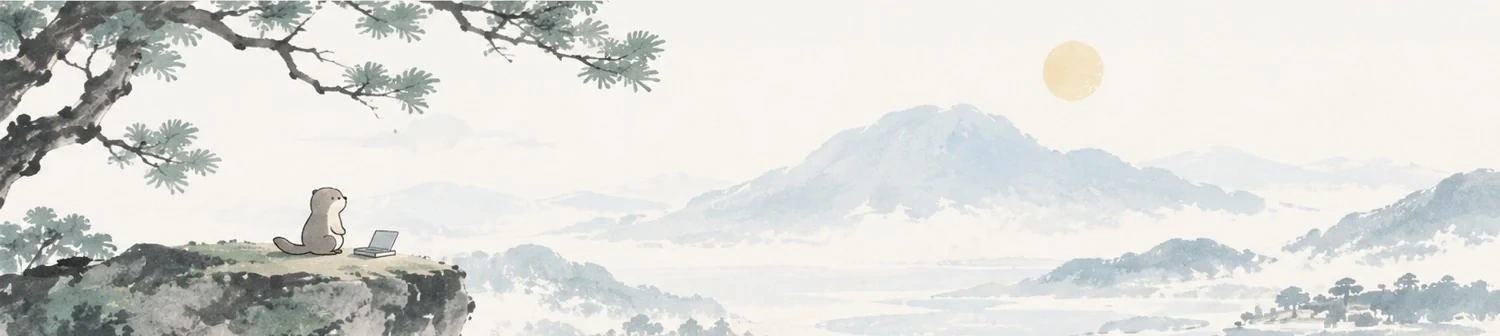
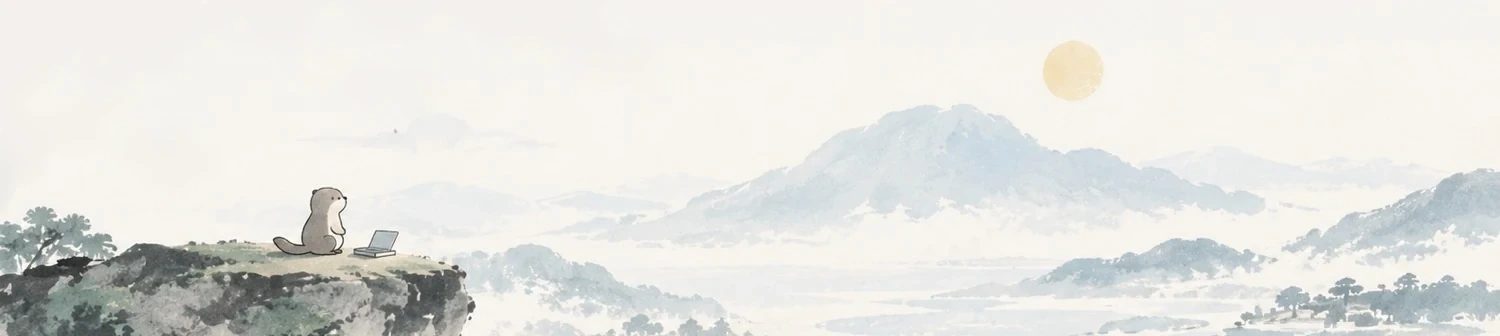
feat: 헤더 소나무를 레이어로 분리해 흔들림 추가

Changed region(s): [[0.0, 0.0, 0.46, 0.5952]]

diff --git a/src/features/header/LandscapeImages.tsx b/src/features/header/LandscapeImages.tsx
@@ -1,21 +1,56 @@
+import { cn } from "#/shared/lib/tailwind";
+
+interface LandscapeSceneProps {
+  background: string;
+  tree: string;
+  className: string;
+}
+
+/**
+ * 한 테마의 풍경. 소나무를 지운 배경 위에 소나무 레이어를 겹쳐 흔든다.
+ */
+function LandscapeScene({ background, tree, className }: LandscapeSceneProps) {
+  return (
+    <div
+      className={cn(
+        "absolute inset-0 transition-opacity duration-700",
+        className,
+      )}
+    >
+      <img
+        src={background}
+        alt=""
+        width={1500}
+        height={336}
+        className="absolute inset-0 size-full"
+      />
+      {/* 소나무 레이어(708x240)는 배경(1500x336)의 왼쪽 위 696x228 영역에 위·왼쪽으로 12px씩 덧댄 것이라 그만큼 밖으로 빼서 놓는다.
+          회전축은 줄기가 화면 왼쪽으로 빠져나가는 지점(배경 기준 0, 185)이다. */}
+      <img
+        src={tree}
+        alt=""
+        width={708}
+        height={240}
+        className="absolute top-[-3.571%] left-[-0.8%] w-[47.2%] origin-[1.695%_82.083%] motion-safe:animate-pine-sway"
+      />
+    </div>
+  );
+}
+
 // 테마는 페인트 전에 <html>.dark로 결정되므로 isDark 상태 대신 dark: 클래스로 전환해야
-// SSR 첫 화면에서 잘못된 이미지가 깜빡이지 않는다. 두 이미지를 겹쳐 두고 opacity로 교차 전환한다.
+// SSR 첫 화면에서 잘못된 이미지가 깜빡이지 않는다. 두 풍경을 겹쳐 두고 opacity로 교차 전환한다.
 export function LandscapeImages() {
   return (
     <>
-      <img
-        src="/images/about-landscape-hero.webp"
-        alt=""
-        width={1500}
-        height={336}
-        className="absolute inset-0 size-full transition-opacity duration-700 dark:opacity-0"
+      <LandscapeScene
+        background="/images/about-landscape-hero.webp"
+        tree="/images/about-landscape-tree.webp"
+        className="dark:opacity-0"
       />
-      <img
-        src="/images/about-landscape-hero-dark.webp"
-        alt=""
-        width={1500}
-        height={336}
-        className="absolute inset-0 size-full opacity-0 transition-opacity duration-700 dark:opacity-100"
+      <LandscapeScene
+        background="/images/about-landscape-hero-dark.webp"
+        tree="/images/about-landscape-tree-dark.webp"
+        className="opacity-0 dark:opacity-100"
       />
     </>
   );

diff --git a/src/styles.css b/src/styles.css
@@ -60,6 +60,7 @@
   --animate-bounce-slow: float 4s linear infinite;
   --animate-stamp: stamp 0.7s linear both;
   --animate-year-active: year-active auto linear;
+  --animate-pine-sway: pine-sway 10s ease-in-out infinite;
 
   /* Shadows */
   --shadow-page:
@@ -101,6 +102,26 @@
     from,
     to {
       color: var(--color-ink-strong);
+    }
+  }
+
+  /* 가지 끝이 위로만 들리게 한다. 아래로 내리면 이미지 위쪽 가장자리 밖(그려지지 않은 부분)이 드러난다 */
+  @keyframes pine-sway {
+    0%,
+    100% {
+      transform: rotate(0deg);
+    }
+    24% {
+      transform: rotate(-0.5deg);
+    }
+    42% {
+      transform: rotate(-0.2deg);
+    }
+    66% {
+      transform: rotate(-0.6deg);
+    }
+    84% {
+      transform: rotate(-0.25deg);
     }
   }
 
